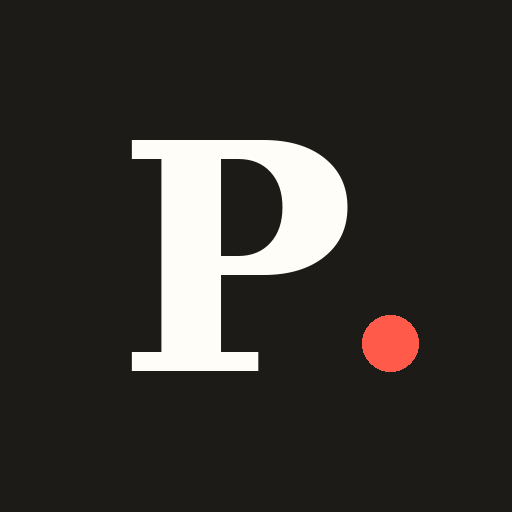
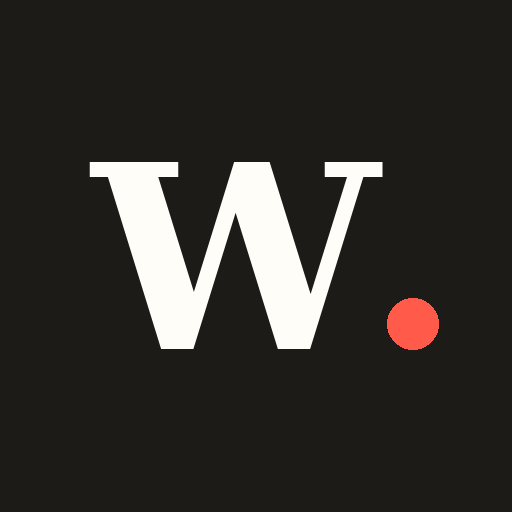
Add files via upload

Changed region(s): [[0.1562, 0.25, 0.75, 0.75], [0.6875, 0.5625, 0.875, 0.75]]

diff --git a/index.html b/index.html
@@ -3,11 +3,11 @@
 <head>
 <meta charset="utf-8">
 <meta name="viewport" content="width=device-width, initial-scale=1, viewport-fit=cover">
-<title>Pace Reader</title>
+<title>Wordsmith</title>
 <meta name="theme-color" content="#f6f4ef">
 <meta name="apple-mobile-web-app-capable" content="yes">
 <meta name="mobile-web-app-capable" content="yes">
-<meta name="apple-mobile-web-app-title" content="Pace">
+<meta name="apple-mobile-web-app-title" content="Wordsmith">
 <meta name="apple-mobile-web-app-status-bar-style" content="default">
 <link rel="manifest" href="manifest.json">
 <link rel="apple-touch-icon" href="apple-touch-icon.png">
@@ -183,7 +183,7 @@ mark{background:color-mix(in srgb,var(--accent) 25%,transparent);color:inherit;b
 <!-- LIBRARY -->
 <section id="library" class="screen">
   <header>
-    <h1 class="brand">Pace<span>.</span></h1>
+    <h1 class="brand">Wordsmith<span>.</span></h1>
     <button class="icon" id="statsBtn" aria-label="Stats"><svg viewBox="0 0 24 24" width="22" height="22"><path d="M6 20V11M12 20V5M18 20v-7" fill="none" stroke="currentColor" stroke-width="2.4" stroke-linecap="round"/></svg></button>
     <button class="icon" id="settingsBtn" aria-label="Settings"><svg viewBox="0 0 24 24" width="22" height="22"><path d="M4 7h9M19 7h1M4 17h1M11 17h9" fill="none" stroke="currentColor" stroke-width="2" stroke-linecap="round"/><circle cx="16" cy="7" r="2.4" fill="none" stroke="currentColor" stroke-width="2"/><circle cx="8" cy="17" r="2.4" fill="none" stroke="currentColor" stroke-width="2"/></svg></button>
   </header>
@@ -273,7 +273,7 @@ mark{background:color-mix(in srgb,var(--accent) 25%,transparent);color:inherit;b
   <p class="fine" id="bmEmpty">No bookmarks yet.</p>
   <h2>Reading goal</h2>
   <div class="goalrow"><input type="date" id="goalDate" aria-label="Finish by"><button id="goalClear">Clear</button></div>
-  <p class="fine" id="goalInfo">Pick a finish date and Pace works out how much to read each day.</p>
+  <p class="fine" id="goalInfo">Pick a finish date and Wordsmith works out how much to read each day.</p>
   <h2>Session timer</h2>
   <label class="setrow">Stop after <select id="timerSel"><option value="0">Off</option><option value="5">5 min</option><option value="10">10 min</option><option value="15">15 min</option><option value="20">20 min</option><option value="30">30 min</option></select></label>
   <button id="openSearch">Search this book…</button>
@@ -311,7 +311,7 @@ mark{background:color-mix(in srgb,var(--accent) 25%,transparent);color:inherit;b
 
 <dialog id="testDlg"><div class="sheet">
   <div class="sheet-head"><h2>Reading speed test</h2><button class="icon" data-close aria-label="Close">✕</button></div>
-  <div id="testIntro"><p>Read the passage at your normal pace. Tap Done when you finish. Pace times you.</p><button class="primary" id="testStart">Start</button></div>
+  <div id="testIntro"><p>Read the passage at your normal pace. Tap Done when you finish. Wordsmith times you.</p><button class="primary" id="testStart">Start</button></div>
   <div id="testRead" hidden><p id="testPassage" class="passage"></p><button class="primary" id="testDone">Done</button></div>
   <div id="testResult" hidden><p id="testMsg"></p><div class="row"><button class="primary" id="testUse">Use</button><button id="testAgain">Try again</button></div></div>
 </div></dialog>
@@ -837,7 +837,7 @@ async function openBook(id) {
   sessionWords = 0; playedMs = 0; skipCount = 0; noRewind = false; hasPaused = cur > 0; wordsSince = 0;
   prog.max = Math.max(0, tokens.length - 1);
   $("#title").textContent = rec.title;
-  document.title = rec.title + " · Pace";
+  document.title = rec.title + " · Wordsmith";
   chapSel.replaceChildren(...chapters.map((c, i) => new Option("  ".repeat(c.depth || 0) + c.title, i)));
   $("#chapterBox").hidden = chapters.length < 2;
   const m = curMeta(); if (m) { m.opened = Date.now(); saveLib(); }
@@ -895,7 +895,7 @@ function renderGoal() {
   $("#goalDate").min = todayKey();
   $("#goalDate").value = (m && m.goal) || "";
   const g = goalInfo(m, cur);
-  $("#goalInfo").textContent = g ? g.long : "Pick a finish date and Pace works out how much to read each day.";
+  $("#goalInfo").textContent = g ? g.long : "Pick a finish date and Wordsmith works out how much to read each day.";
 }
 function openMenu() { pause(); renderBookmarks(); renderGoal(); $("#menuDlg").showModal(); }
 
@@ -1082,7 +1082,7 @@ $$("[data-close]").forEach(b => b.onclick = () => b.closest("dialog").close());
 $("#settingsBtn").addEventListener("click", () => {});
 $("#menuDlg").addEventListener("close", () => { renderLibrary(); });
 
-$("#back").onclick = () => { pause(); flush(); save(); renderLibrary(); document.title = "Pace Reader"; show("library"); };
+$("#back").onclick = () => { pause(); flush(); save(); renderLibrary(); document.title = "Wordsmith"; show("library"); };
 const stage = $("#stage");
 stage.onclick = () => { if (!settings.hold) toggle(); };
 stage.addEventListener("pointerdown", e => { if (!settings.hold) return; e.preventDefault(); try { stage.setPointerCapture(e.pointerId); } catch (x) {} holdActive = true; play(); });
@@ -1180,7 +1180,7 @@ $("#testDone").onclick = () => {
   if (w > 1000) { $("#testMsg").textContent = "That was too fast to be a real read. Try again and read every word."; $("#testUse").hidden = true; return; }
   stats.test = { wpm: w, date: todayKey() }; store.set("pace:stats", stats);
   const sug = Math.max(200, Math.min(600, Math.round(w * 1.3 / 25) * 25));
-  $("#testMsg").textContent = `You read about ${w} words per minute. Try Pace at ${sug} wpm.`;
+  $("#testMsg").textContent = `You read about ${w} words per minute. Try Wordsmith at ${sug} wpm.`;
   const use = $("#testUse"); use.hidden = false; use.textContent = `Use ${sug} wpm`;
   use.onclick = () => { setWpm(sug); $("#testDlg").close(); toast(`Speed set to ${sug} wpm`); };
 };
@@ -1231,14 +1231,14 @@ async function makeBackup() {
 }
 async function prepareBackup() {
   const btn = $("#backupBtn"); backupFile = null; btn.disabled = true; btn.textContent = "Preparing…";
-  try { backupFile = new File([JSON.stringify(await makeBackup())], `pace-backup-${todayKey()}.json`, { type: "application/json" }); } catch (e) {}
+  try { backupFile = new File([JSON.stringify(await makeBackup())], `wordsmith-backup-${todayKey()}.json`, { type: "application/json" }); } catch (e) {}
   btn.disabled = !backupFile; btn.textContent = "Save backup";
 }
 async function saveBackup() {
   if (!backupFile) return;
   const file = backupFile; let done = false;
   if (navigator.canShare && navigator.canShare({ files: [file] })) {
-    try { await navigator.share({ files: [file], title: "Pace backup" }); done = true; } catch (e) { if (e && e.name === "AbortError") return; }
+    try { await navigator.share({ files: [file], title: "Wordsmith backup" }); done = true; } catch (e) { if (e && e.name === "AbortError") return; }
   }
   if (!done) {
     const a = document.createElement("a"); a.href = URL.createObjectURL(file); a.download = file.name;
@@ -1249,7 +1249,7 @@ async function saveBackup() {
 async function restoreBackup(file) {
   try {
     const data = JSON.parse(await file.text());
-    if (!data || data.format !== "pace-backup" || !Array.isArray(data.books)) throw new Error("that isn't a Pace backup file");
+    if (!data || data.format !== "pace-backup" || !Array.isArray(data.books)) throw new Error("that isn't a Wordsmith backup file");
     const n = data.books.length;
     if (!confirm(`Restore ${n} book${n === 1 ? "" : "s"} from ${data.saved ? new Date(data.saved).toLocaleDateString() : "this backup"}? Books already here are updated.`)) return;
     for (const rec of data.books) await dbPut(rec);

diff --git a/sw.js b/sw.js
@@ -1,4 +1,4 @@
-const CACHE = "pace-v7";
+const CACHE = "wordsmith-v1";
 const FILES = ["./", "index.html", "manifest.json", "icon-192.png", "icon-512.png", "apple-touch-icon.png"];
 self.addEventListener("install", e => {
   e.waitUntil(caches.open(CACHE).then(c => c.addAll(FILES)).then(() => self.skipWaiting()));
